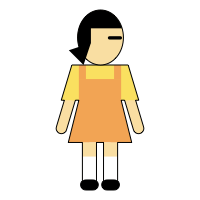
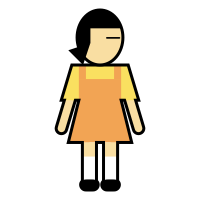
Add player board, update doll images
- Changed main menu button to show player board before start game
    - Changed text & increased size
- Increased outline width for doll images; decreased eye outline widths

Changed region(s): [[0.27, 0.03, 0.75, 0.96], [0.45, 0.15, 0.48, 0.21], [0.42, 0.06, 0.45, 0.09]]

diff --git a/src/main/java/com/example/squidgame/Main.java b/src/main/java/com/example/squidgame/Main.java
@@ -1,8 +1,12 @@
 package com.example.squidgame;
 
 import javafx.application.Application;
+import javafx.collections.ObservableList;
 import javafx.fxml.FXMLLoader;
+import javafx.scene.Node;
+import javafx.scene.control.Button;
 import javafx.scene.layout.GridPane;
+import javafx.scene.layout.HBox;
 import javafx.scene.layout.VBox;
 import javafx.scene.Scene;
 import javafx.stage.Stage;
@@ -12,13 +16,12 @@ import java.util.ArrayList;
 import java.util.Random;
 
 public class Main extends Application {
-    private MainController controllerMain;
     private Stage stage;
     private Scene sceneMain;
     private RedLightGreenLight game1;
 
-    private GridPane dashboard;
     private DashboardController controllerDashboard;
+    private PlayerboardController controllerPlayerboard;
 
     private final Random random = new Random();
 
@@ -36,35 +39,53 @@ public class Main extends Application {
     public void start(Stage stage) throws IOException {
         this.stage = stage;
 
-        FXMLLoader fxmlLoader = new FXMLLoader(getClass().getResource("main.fxml"));
-        VBox rootMain = fxmlLoader.load();
-        sceneMain = new Scene(rootMain, Entity.X_MAX, Entity.Y_MAX);
-        controllerMain = fxmlLoader.getController();
-        controllerMain.buttonMode1.setText(RedLightGreenLight.NAME);
-        controllerMain.buttonMode1.setOnAction(event -> {
+        FXMLLoader fxmlLoaderDashboard = new FXMLLoader(getClass().getResource("dashboard.fxml"));
+        GridPane dashboard = fxmlLoaderDashboard.load();
+        dashboard.setStyle("-fx-background-color: " + Colors.BLACK);
+        controllerDashboard = fxmlLoaderDashboard.getController();
+
+        FXMLLoader fxmlLoaderPlayerboard = new FXMLLoader(getClass().getResource("playerboard.fxml"));
+        HBox playerboard = fxmlLoaderPlayerboard.load();
+        Scene scenePlayerboard = new Scene(playerboard, 400, 600);
+        controllerPlayerboard = fxmlLoaderPlayerboard.getController();
+        controllerPlayerboard.buttonContinue.setOnAction(event -> {
             game1 = new RedLightGreenLight(this);
             game1.getRoot().getChildren().add(0, dashboard);
-            resetGame();
-            createPlayers();
+            for (Player player: players) {
+                game1.getPane().getChildren().add(player.getSprite());
+            }
             game1.start();
             stage.setScene(game1.getScene());
         });
 
-        FXMLLoader fxmlLoaderDashboard = new FXMLLoader(getClass().getResource("dashboard.fxml"));
-        dashboard = fxmlLoaderDashboard.load();
-        dashboard.setStyle("-fx-background-color: " + Colors.BLACK);
-        controllerDashboard = fxmlLoaderDashboard.getController();
+        FXMLLoader fxmlLoader = new FXMLLoader(getClass().getResource("main.fxml"));
+        VBox rootMain = fxmlLoader.load();
+        sceneMain = new Scene(rootMain, Entity.X_MAX, Entity.Y_MAX);
+        MainController controllerMain = fxmlLoader.getController();
+        controllerMain.buttonPlay.setText("Play");
+        controllerMain.buttonPlay.setOnAction(event -> {
+            stage.setScene(scenePlayerboard);
+            resetGame();
+            createPlayers();
+        });
 
         stage.setTitle("Squid Game");
         stage.setScene(sceneMain);
         stage.show();
     }
 
+    public static void main(String[] args) {
+        launch();
+    }
+
+    public DashboardController getControllerDashboard() { return controllerDashboard; }
+    public PlayerboardController getControllerPlayerboard() { return controllerPlayerboard; }
+
     public void setSceneMain() {
         stage.setScene(sceneMain);
     }
-
     public Player[] getPlayers() { return players; }
+
     public Player getHumanPlayer() { return players[humanPlayerNumber]; }
 
     public void eliminatePlayers(int count) {
@@ -76,24 +97,26 @@ public class Main extends Application {
 
     private void createPlayers() {
         ArrayList<String> occupations = new ArrayList<>();
-        try {
-            try (BufferedReader reader = new BufferedReader(new InputStreamReader(
-                    getClass().getResourceAsStream("occupations.txt")
-            ))) {
-                String line;
-                do {
-                    line = reader.readLine();
-                    if (line != null && line.length() > 0) {
-                        occupations.add(line);
-                    }
-                } while (line != null);
+        InputStream input = getClass().getResourceAsStream("occupations.txt");
+        if (input != null) {
+            try {
+                try (BufferedReader reader = new BufferedReader(new InputStreamReader(input))) {
+                    String line;
+                    do {
+                        line = reader.readLine();
+                        if (line != null && line.length() > 0) {
+                            occupations.add(line);
+                        }
+                    } while (line != null);
+                }
+            }
+            catch (IOException e) {
+                occupations = null;
             }
         }
-        catch (IOException e) {
-            System.out.println(e);
-            occupations = null;
-        }
 
+        ObservableList<Node> children = controllerPlayerboard.board.getChildren();
+        children.remove(0, children.size());
         humanPlayerNumber = random.nextInt(MAX_PLAYERS);
         for (int i = 0; i < players.length; i++) {
             double speed = random.nextDouble(0.5, 1.0);
@@ -101,8 +124,29 @@ public class Main extends Application {
             double y = random.nextDouble(Entity.Y_MIN, Entity.Y_MIN + (Entity.Y_MAX - Entity.Y_MIN));
             int age = random.nextInt(18, 101);
             String occupation = (occupations != null) ? occupations.get(random.nextInt(occupations.size())) : "";
-            players[i] = new Player(i+1, x, y, speed, i != humanPlayerNumber, age, occupation);
-            game1.getPane().getChildren().add(players[i].getSprite());
+            Player player = new Player(i+1, x, y, speed, i != humanPlayerNumber, age, occupation);
+            players[i] = player;
+
+            // Add players to player board.
+            int row = i / 24;
+            int column = i % 24;
+            Button button = new Button(player.getPlayerNumber());
+            button.setStyle("-fx-padding: 1.0"); // -fx-background-color: #000; -fx-text-fill: #808080");
+            button.setMaxSize(Double.MAX_VALUE, Double.MAX_VALUE);
+            button.setOnAction(event -> {
+                controllerPlayerboard.labelNumber.setText(
+                        String.format("Player %s", player.getPlayerNumber())
+                );
+                controllerPlayerboard.labelName.setText(player.getName());
+                controllerPlayerboard.labelAge.setText(String.valueOf(player.getAge()));
+                controllerPlayerboard.labelOccupation.setText(player.getOccupation());
+            });
+            controllerPlayerboard.board.add(button, column, row);
+            player.setPlayerboardButton(button);
+            // Display the human player initially.
+            if (i == humanPlayerNumber) {
+                button.fire();
+            }
         }
     }
 
@@ -142,9 +186,5 @@ public class Main extends Application {
 
     public void updatePrize() {
         controllerDashboard.labelPrize.setText(String.format("₩%,d", prize));
-    }
-
-    public static void main(String[] args) {
-        launch();
     }
 }

diff --git a/src/main/java/com/example/squidgame/Player.java b/src/main/java/com/example/squidgame/Player.java
@@ -3,6 +3,7 @@ package com.example.squidgame;
 import javafx.animation.Animation;
 import javafx.animation.FillTransition;
 import javafx.animation.PauseTransition;
+import javafx.scene.control.Button;
 import javafx.scene.paint.Color;
 import javafx.scene.paint.Paint;
 import javafx.scene.shape.Circle;
@@ -14,8 +15,8 @@ public class Player extends Entity {
     private final boolean computer;
 
     private String name = "";
-    private String occupation = "";
     private int age;
+    private String occupation = "";
 
     private long timeKill = Long.MAX_VALUE;
     private long timeStartMove = Long.MAX_VALUE;
@@ -26,6 +27,7 @@ public class Player extends Entity {
 
     private Circle sprite;
     private FillTransition humanAnimation;
+    private Button playerboardButton;
 
     Player(int playerNumber, double x, double y, double maxSpeed, boolean computer, int age, String occupation) {
         this.playerNumber = playerNumber;
@@ -52,14 +54,21 @@ public class Player extends Entity {
     }
 
     public Circle getSprite() { return sprite; }
+    public Button getPlayerboardButton() { return playerboardButton; }
     public boolean isPlaying() { return playing; }
     public boolean isComputer() { return computer; }
+    public String getPlayerNumber() { return String.format("%03d", playerNumber); }
+    public String getName() { return name; }
+    public int getAge() { return age; }
+    public String getOccupation() { return occupation; }
+
     public long getTimeKill() { return timeKill; }
     public long getTimeStartMove() { return timeStartMove; }
     public long getTimeStopMove() { return timeStopMove; }
     public boolean isScheduledKill() { return scheduledKill; }
     public boolean isScheduledStartMove() { return scheduledStartMove; }
     public boolean isScheduledStopMove() { return scheduledStopMove; }
+    public void setPlayerboardButton(Button button) { playerboardButton = button; }
 
     public void setMoveX(int direction) {
         xDirection = direction;
@@ -128,6 +137,7 @@ public class Player extends Entity {
         scheduledKill = false;
         xSpeed = 0.0;
         ySpeed = 0.0;
+
         if (!computer) {
             humanAnimation.stop();
         }
@@ -137,6 +147,7 @@ public class Player extends Entity {
             sprite.setStrokeWidth(0);
         });
         killAnimation.play();
+
         System.out.printf("Killed %d\n", playerNumber);
     }
 

diff --git a/src/main/java/com/example/squidgame/PlayerboardController.java b/src/main/java/com/example/squidgame/PlayerboardController.java
@@ -1,0 +1,21 @@
+package com.example.squidgame;
+
+import javafx.fxml.FXML;
+import javafx.scene.control.Button;
+import javafx.scene.control.Label;
+import javafx.scene.layout.GridPane;
+
+public class PlayerboardController {
+    @FXML
+    public GridPane board;
+    @FXML
+    public Label labelNumber;
+    @FXML
+    public Label labelName;
+    @FXML
+    public Label labelAge;
+    @FXML
+    public Label labelOccupation;
+    @FXML
+    public Button buttonContinue;
+}

diff --git a/src/main/java/com/example/squidgame/RedLightGreenLight.java b/src/main/java/com/example/squidgame/RedLightGreenLight.java
@@ -132,6 +132,7 @@ public class RedLightGreenLight extends AnimationTimer {
                 }
                 if (player.isScheduledKill() && now >= player.getTimeKill()) {
                     player.kill();
+                    app.getControllerPlayerboard().board.getChildren().remove(player.getPlayerboardButton());
                     numberPlayersEliminated += 1;
                 }
                 // Schedule killing for remaining players after game ends.

diff --git a/src/main/java/com/example/squidgame/MainController.java b/src/main/java/com/example/squidgame/MainController.java
@@ -5,5 +5,5 @@ import javafx.scene.control.Button;
 
 public class MainController {
     @FXML
-    public Button buttonMode1;
+    public Button buttonPlay;
 }
